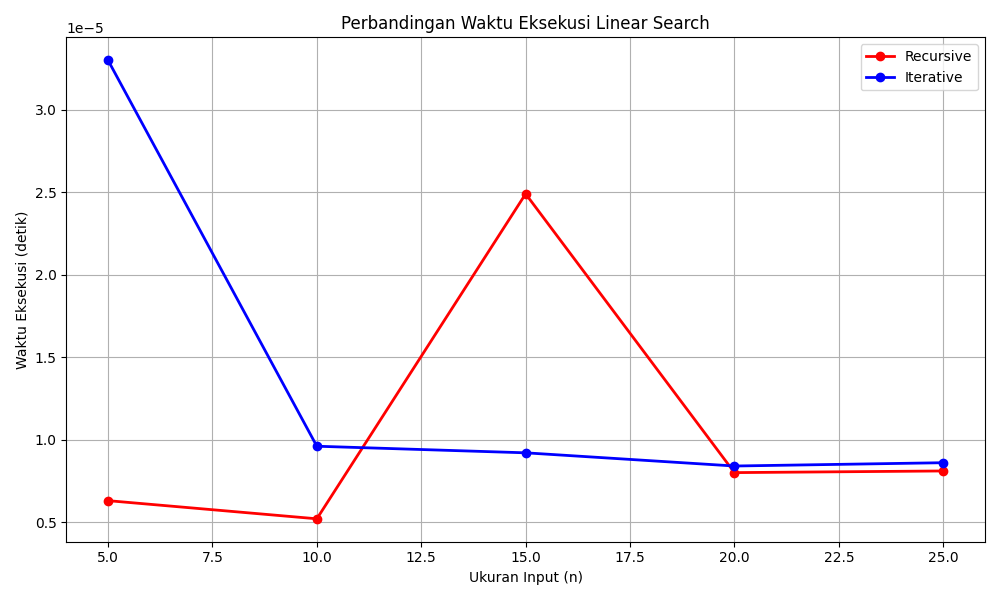
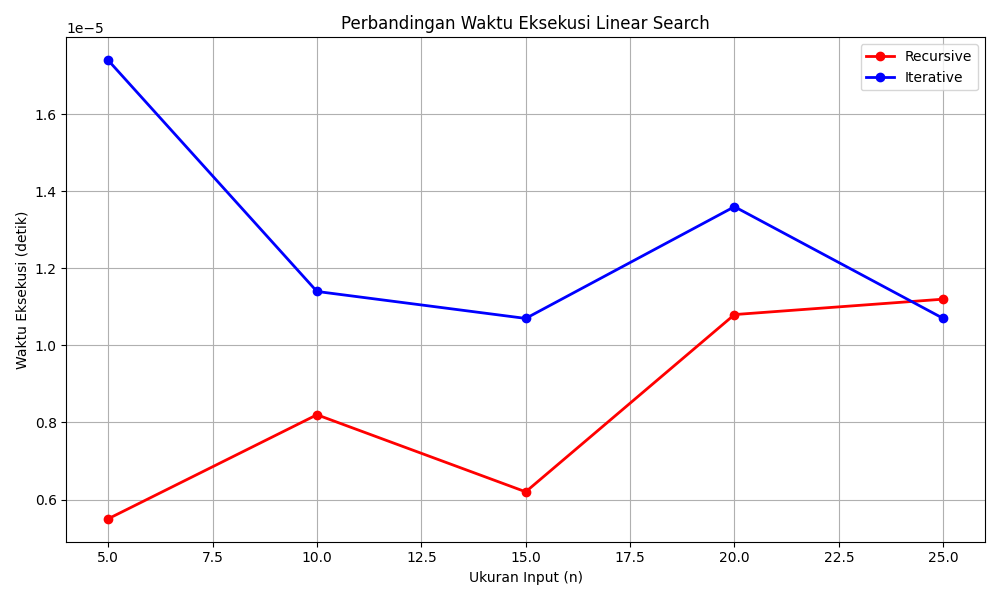
TA_AKA_DEKA_NAJWA

diff --git a/laporan.md b/laporan.md
@@ -1,12 +1,12 @@
 # Tugas Akhir: Analisis Kompleksitas Algoritma
 
-## Anggota:
+## Anggota Kelompok :
 - **Muhammad Deka Maulana** (2311102148)
 - **Najwa Humairah** (2311102134)
 
 ---
 
-## Perbandingan Waktu Eksekusi Insertion Sort (Iteratif vs Rekursif)
+## Perbandingan Waktu Eksekusi Linear Search (Iteratif vs Rekursif)
 
 Proyek ini membandingkan waktu eksekusi antara dua implementasi algoritma Linear Search, yaitu versi iteratif dan rekursif. Pengguna dapat memasukkan ukuran input (n) dan kriteria pencarian, serta melihat perbandingan waktu eksekusi dan hasil pencarian dalam bentuk tabel dan grafik.
 
@@ -44,63 +44,65 @@ def linear_search_recursive(arr, n, key, value, result=None):
 ```plaintext
 Run 1 - Masukkan kriteria pencarian:
 Masukkan kriteria (title/author/category): title
-Masukkan title yang ingin dicari: 1984
+Masukkan title yang ingin dicari: The Great Gatsby
 Masukkan jumlah buku yang akan dicari (n): 5
 
-Hasil Pencarian (Iterative): [{'id': 102, 'title': '1984', 'author': 'George Orwell', 'category': 'Dystopian'}]
-Hasil Pencarian (Recursive): [{'id': 102, 'title': '1984', 'author': 'George Orwell', 'category': 'Dystopian'}]
+Hasil Pencarian (Iterative): [{'id': 101, 'title': 'The Great Gatsby', 'author': 'F. Scott Fitzgerald', 'category': 'Fiction'}]
+Hasil Pencarian (Recursive): [{'id': 101, 'title': 'The Great Gatsby', 'author': 'F. Scott Fitzgerald', 'category': 'Fiction'}]
  n  Recursive Time (s)  Iterative Time (s)
- 5            0.000006            0.000033
+ 5            0.000005            0.000017
 
 Run 2 - Masukkan kriteria pencarian:
 Masukkan kriteria (title/author/category): title
-Masukkan title yang ingin dicari: The Great Gatsby
+Masukkan title yang ingin dicari: 1984
 Masukkan jumlah buku yang akan dicari (n): 10
 
-Hasil Pencarian (Iterative): [{'id': 101, 'title': 'The Great Gatsby', 'author': 'F. Scott Fitzgerald', 'category': 'Fiction'}, {'id': 101, 'title': 'The Great Gatsby', 'author': 'F. Scott Fitzgerald', 'category': 'Fiction'}]
-Hasil Pencarian (Recursive): [{'id': 101, 'title': 'The Great Gatsby', 'author': 'F. Scott Fitzgerald', 'category': 'Fiction'}, {'id': 101, 'title': 'The Great Gatsby', 'author': 'F. Scott Fitzgerald', 'category': 'Fiction'}]
+Hasil Pencarian (Iterative): [{'id': 102, 'title': '1984', 'author': 'George Orwell', 'category': 'Dystopian'}, {'id': 102, 'title': '1984', 'author': 'George Orwell', 'category': 'Dystopian'}]
+Hasil Pencarian (Recursive): [{'id': 102, 'title': '1984', 'author': 'George Orwell', 'category': 'Dystopian'}, {'id': 102, 'title': '1984', 'author': 'George Orwell', 'category': 'Dystopian'}]
  n  Recursive Time (s)  Iterative Time (s)
- 5            0.000006            0.000033
-10            0.000005            0.000010
+ 5            0.000005            0.000017
+10            0.000008            0.000011
 
 Run 3 - Masukkan kriteria pencarian:
-Masukkan kriteria (title/author/category): author
-Masukkan author yang ingin dicari: Tara Westover
+Masukkan kriteria (title/author/category): title                  
+Masukkan title yang ingin dicari: To Kill a Mockingbird
 Masukkan jumlah buku yang akan dicari (n): 15
 
-Hasil Pencarian (Iterative): [{'id': 106, 'title': 'Educated', 'author': 'Tara Westover', 'category': 'Memoir'}, {'id': 106, 'title': 'Educated', 'author': 'Tara Westover', 'category': 'Memoir'}]
-Hasil Pencarian (Recursive): [{'id': 106, 'title': 'Educated', 'author': 'Tara Westover', 'category': 'Memoir'}, {'id': 106, 'title': 'Educated', 'author': 'Tara Westover', 'category': 'Memoir'}]
+Hasil Pencarian (Iterative): [{'id': 103, 'title': 'To Kill a Mockingbird', 'author': 'Harper Lee', 'category': 'Fiction'}, {'id': 103, 'title': 'To Kill a Mockingbird', 'author': 'Harper Lee', 'category': 'Fiction'}]
+Hasil Pencarian (Recursive): [{'id': 103, 'title': 'To Kill a Mockingbird', 'author': 'Harper Lee', 'category': 'Fiction'}, {'id': 103, 'title': 'To Kill a Mockingbird', 'author': 'Harper Lee', 'category': 'Fiction'}]
  n  Recursive Time (s)  Iterative Time (s)
- 5            0.000006            0.000033
-10            0.000005            0.000010
-15            0.000025            0.000009
+ 5            0.000005            0.000017
+10            0.000008            0.000011
+15            0.000006            0.000011
 
 Run 4 - Masukkan kriteria pencarian:
-Masukkan kriteria (title/author/category): author
-Masukkan author yang ingin dicari: F. Scott Fitzgerald
+Masukkan kriteria (title/author/category): title
+Masukkan title yang ingin dicari: The Catcher in the Rye
 Masukkan jumlah buku yang akan dicari (n): 20
 
-Hasil Pencarian (Iterative): [{'id': 101, 'title': 'The Great Gatsby', 'author': 'F. Scott Fitzgerald', 'category': 'Fiction'}, {'id': 101, 'title': 'The Great Gatsby', 'author': 'F. Scott Fitzgerald', 'category': 'Fiction'}, {'id': 101, 'title': 'The Great Gatsby', 'author': 'F. Scott Fitzgerald', 'category': 'Fiction'}]
-Hasil Pencarian (Recursive): [{'id': 101, 'title': 'The Great Gatsby', 'author': 'F. Scott Fitzgerald', 'category': 'Fiction'}, {'id': 101, 'title': 'The Great Gatsby', 'author': 'F. Scott Fitzgerald', 'category': 'Fiction'}, {'id': 101, 'title': 'The Great Gatsby', 'author': 'F. Scott Fitzgerald', 'category': 'Fiction'}]
+Hasil Pencarian (Iterative): [{'id': 104, 'title': 'The Catcher in the Rye', 'author': 'J.D. Salinger', 'category': 'Fiction'}, {'id': 104, 'title': 'The Catcher in the Rye', 'author': 'J.D. Salinger', 'category': 'Fiction'}, {'id': 104, 'title': 'The Catcher in the Rye', 'author': 'J.D. Salinger', 'category': 'Fiction'}]
+Hasil Pencarian (Recursive): [{'id': 104, 'title': 'The Catcher in the Rye', 'author': 'J.D. Salinger', 'category': 'Fiction'}, {'id': 104, 'title': 'The Catcher in the Rye', 'author': 'J.D. Salinger', 'category': 'Fiction'}, {'id': 104, 'title': 'The Catcher in the Rye', 'author': 'J.D. Salinger', 'category': 'Fiction'}]
  n  Recursive Time (s)  Iterative Time (s)
- 5            0.000006            0.000033
-10            0.000005            0.000010
-15            0.000025            0.000009
-20            0.000008            0.000008
+ 5            0.000005            0.000017
+10            0.000008            0.000011
+15            0.000006            0.000011
+20            0.000011            0.000014
 
 Run 5 - Masukkan kriteria pencarian:
-Masukkan kriteria (title/author/category): category
-Masukkan category yang ingin dicari: History
+Masukkan kriteria (title/author/category): title
+Masukkan title yang ingin dicari: Sapiens
 Masukkan jumlah buku yang akan dicari (n): 25
 
 Hasil Pencarian (Iterative): [{'id': 105, 'title': 'Sapiens', 'author': 'Yuval Noah Harari', 'category': 'History'}, {'id': 105, 'title': 'Sapiens', 'author': 'Yuval Noah Harari', 'category': 'History'}, {'id': 105, 'title': 'Sapiens', 'author': 'Yuval Noah Harari', 'category': 'History'}]
 Hasil Pencarian (Recursive): [{'id': 105, 'title': 'Sapiens', 'author': 'Yuval Noah Harari', 'category': 'History'}, {'id': 105, 'title': 'Sapiens', 'author': 'Yuval Noah Harari', 'category': 'History'}, {'id': 105, 'title': 'Sapiens', 'author': 'Yuval Noah Harari', 'category': 'History'}]
  n  Recursive Time (s)  Iterative Time (s)
- 5            0.000006            0.000033
-10            0.000005            0.000010
-15            0.000025            0.000009
-20            0.000008            0.000008
-25            0.000008            0.000009
+ 5            0.000005            0.000017
+10            0.000008            0.000011
+15            0.000006            0.000011
+20            0.000011            0.000014
+25            0.000011            0.000011
+
+Program selesai!
 ```
 
 ### Output Grafik
